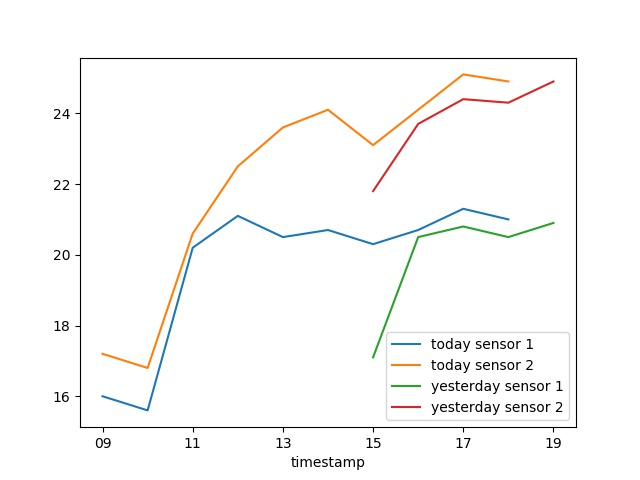
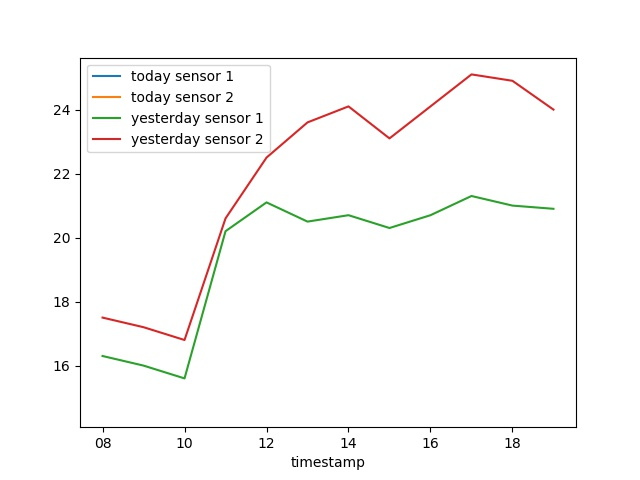
small corrections

diff --git a/temp_analyzer/mongo_manager.py b/temp_analyzer/mongo_manager.py
@@ -14,9 +14,9 @@ class MongoManager(object):
         self.mongodb = self.mongoclient.raspberry
 
     def get_temp_df(self, max_rows=0):
-        start_today = datetime.combine(date.today(), time(9))
+        start_today = datetime.combine(date.today(), time(8))
         end_today = datetime.combine(date.today(), time(20))
-        start_yesterday = datetime.combine(date.today() - timedelta(1), time(9))
+        start_yesterday = datetime.combine(date.today() - timedelta(1), time(8))
         end_yesterday = datetime.combine(date.today() - timedelta(1), time(20))
         input_data = self.mongodb.temperatures
         data_today = pd.DataFrame(list(input_data.

diff --git a/temp_analyzer/app.py b/temp_analyzer/app.py
@@ -15,9 +15,10 @@ def get_temp():
     df = df.set_index(['timestamp', 'port', 'day'])
     df = df.unstack(-1).unstack(-1)
     df.columns = ['today sensor 1', 'today sensor 2', 'yesterday sensor 1', 'yesterday sensor 2']
-    fig=df.plot()
+    fig = df.plot()
     fig.get_figure().savefig('temp_charts.jpg')
-    fig.show()
+    plt.show()
+
 
 if __name__ == '__main__':
     get_temp()
